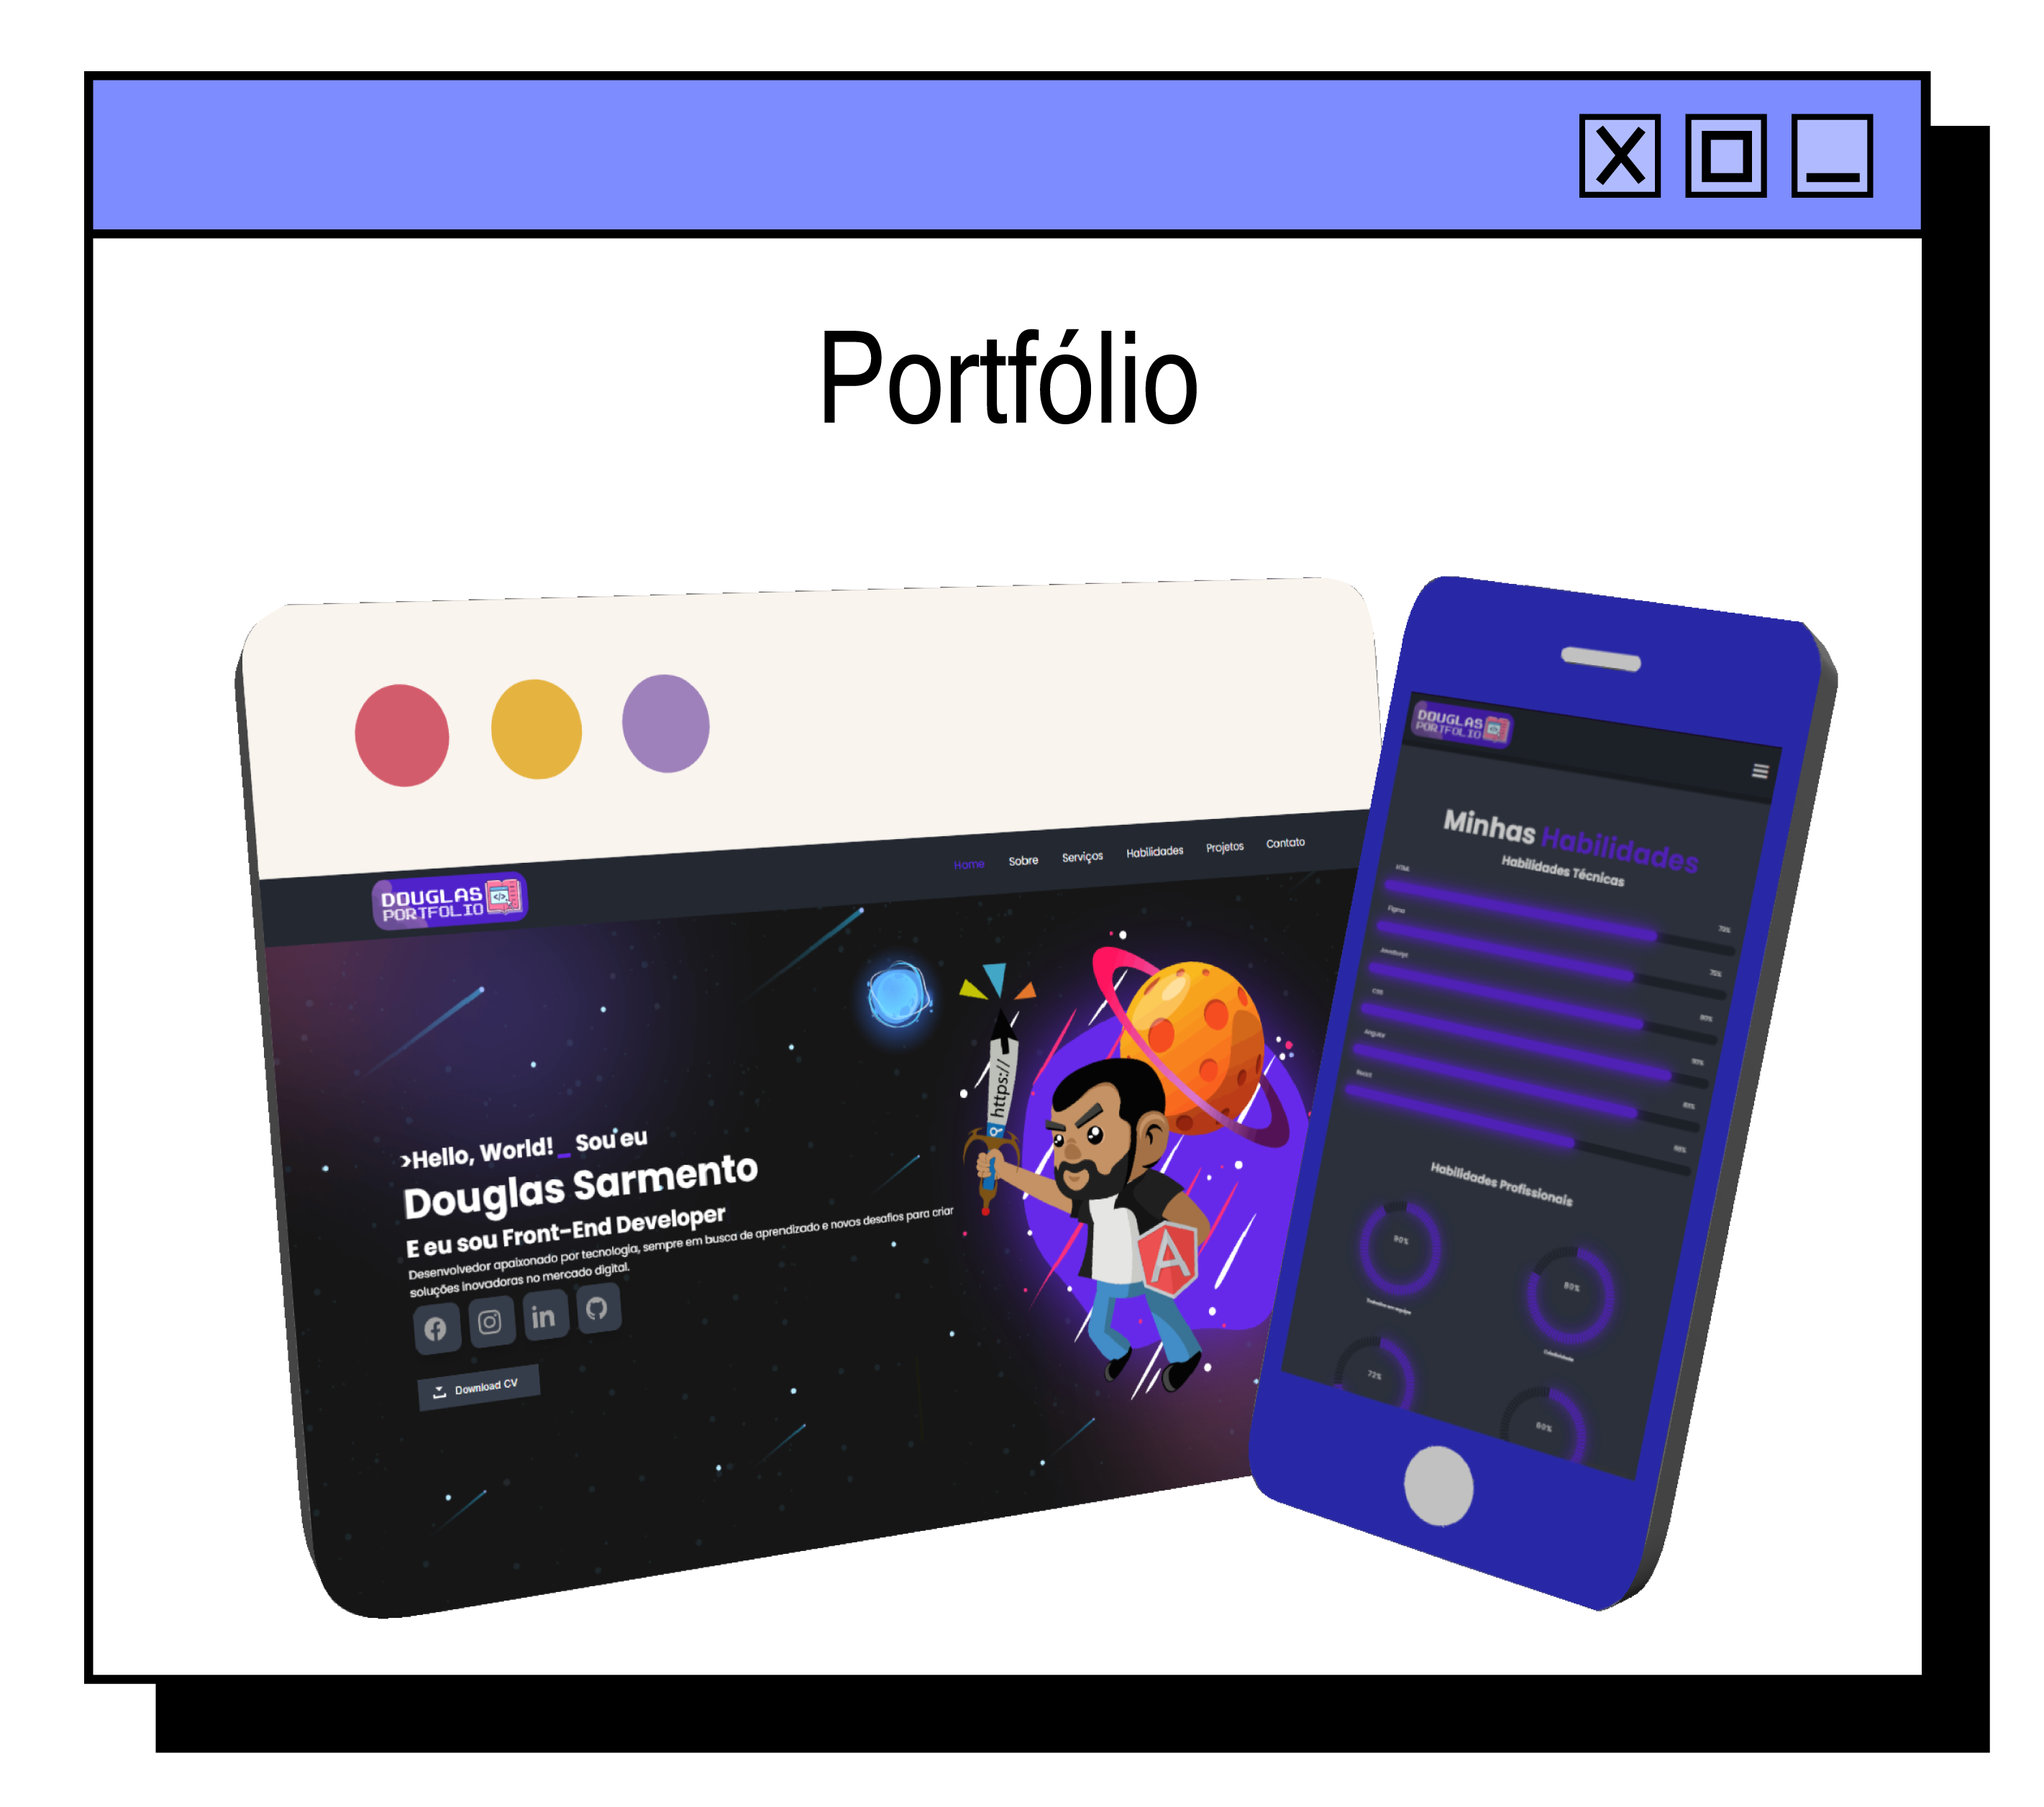
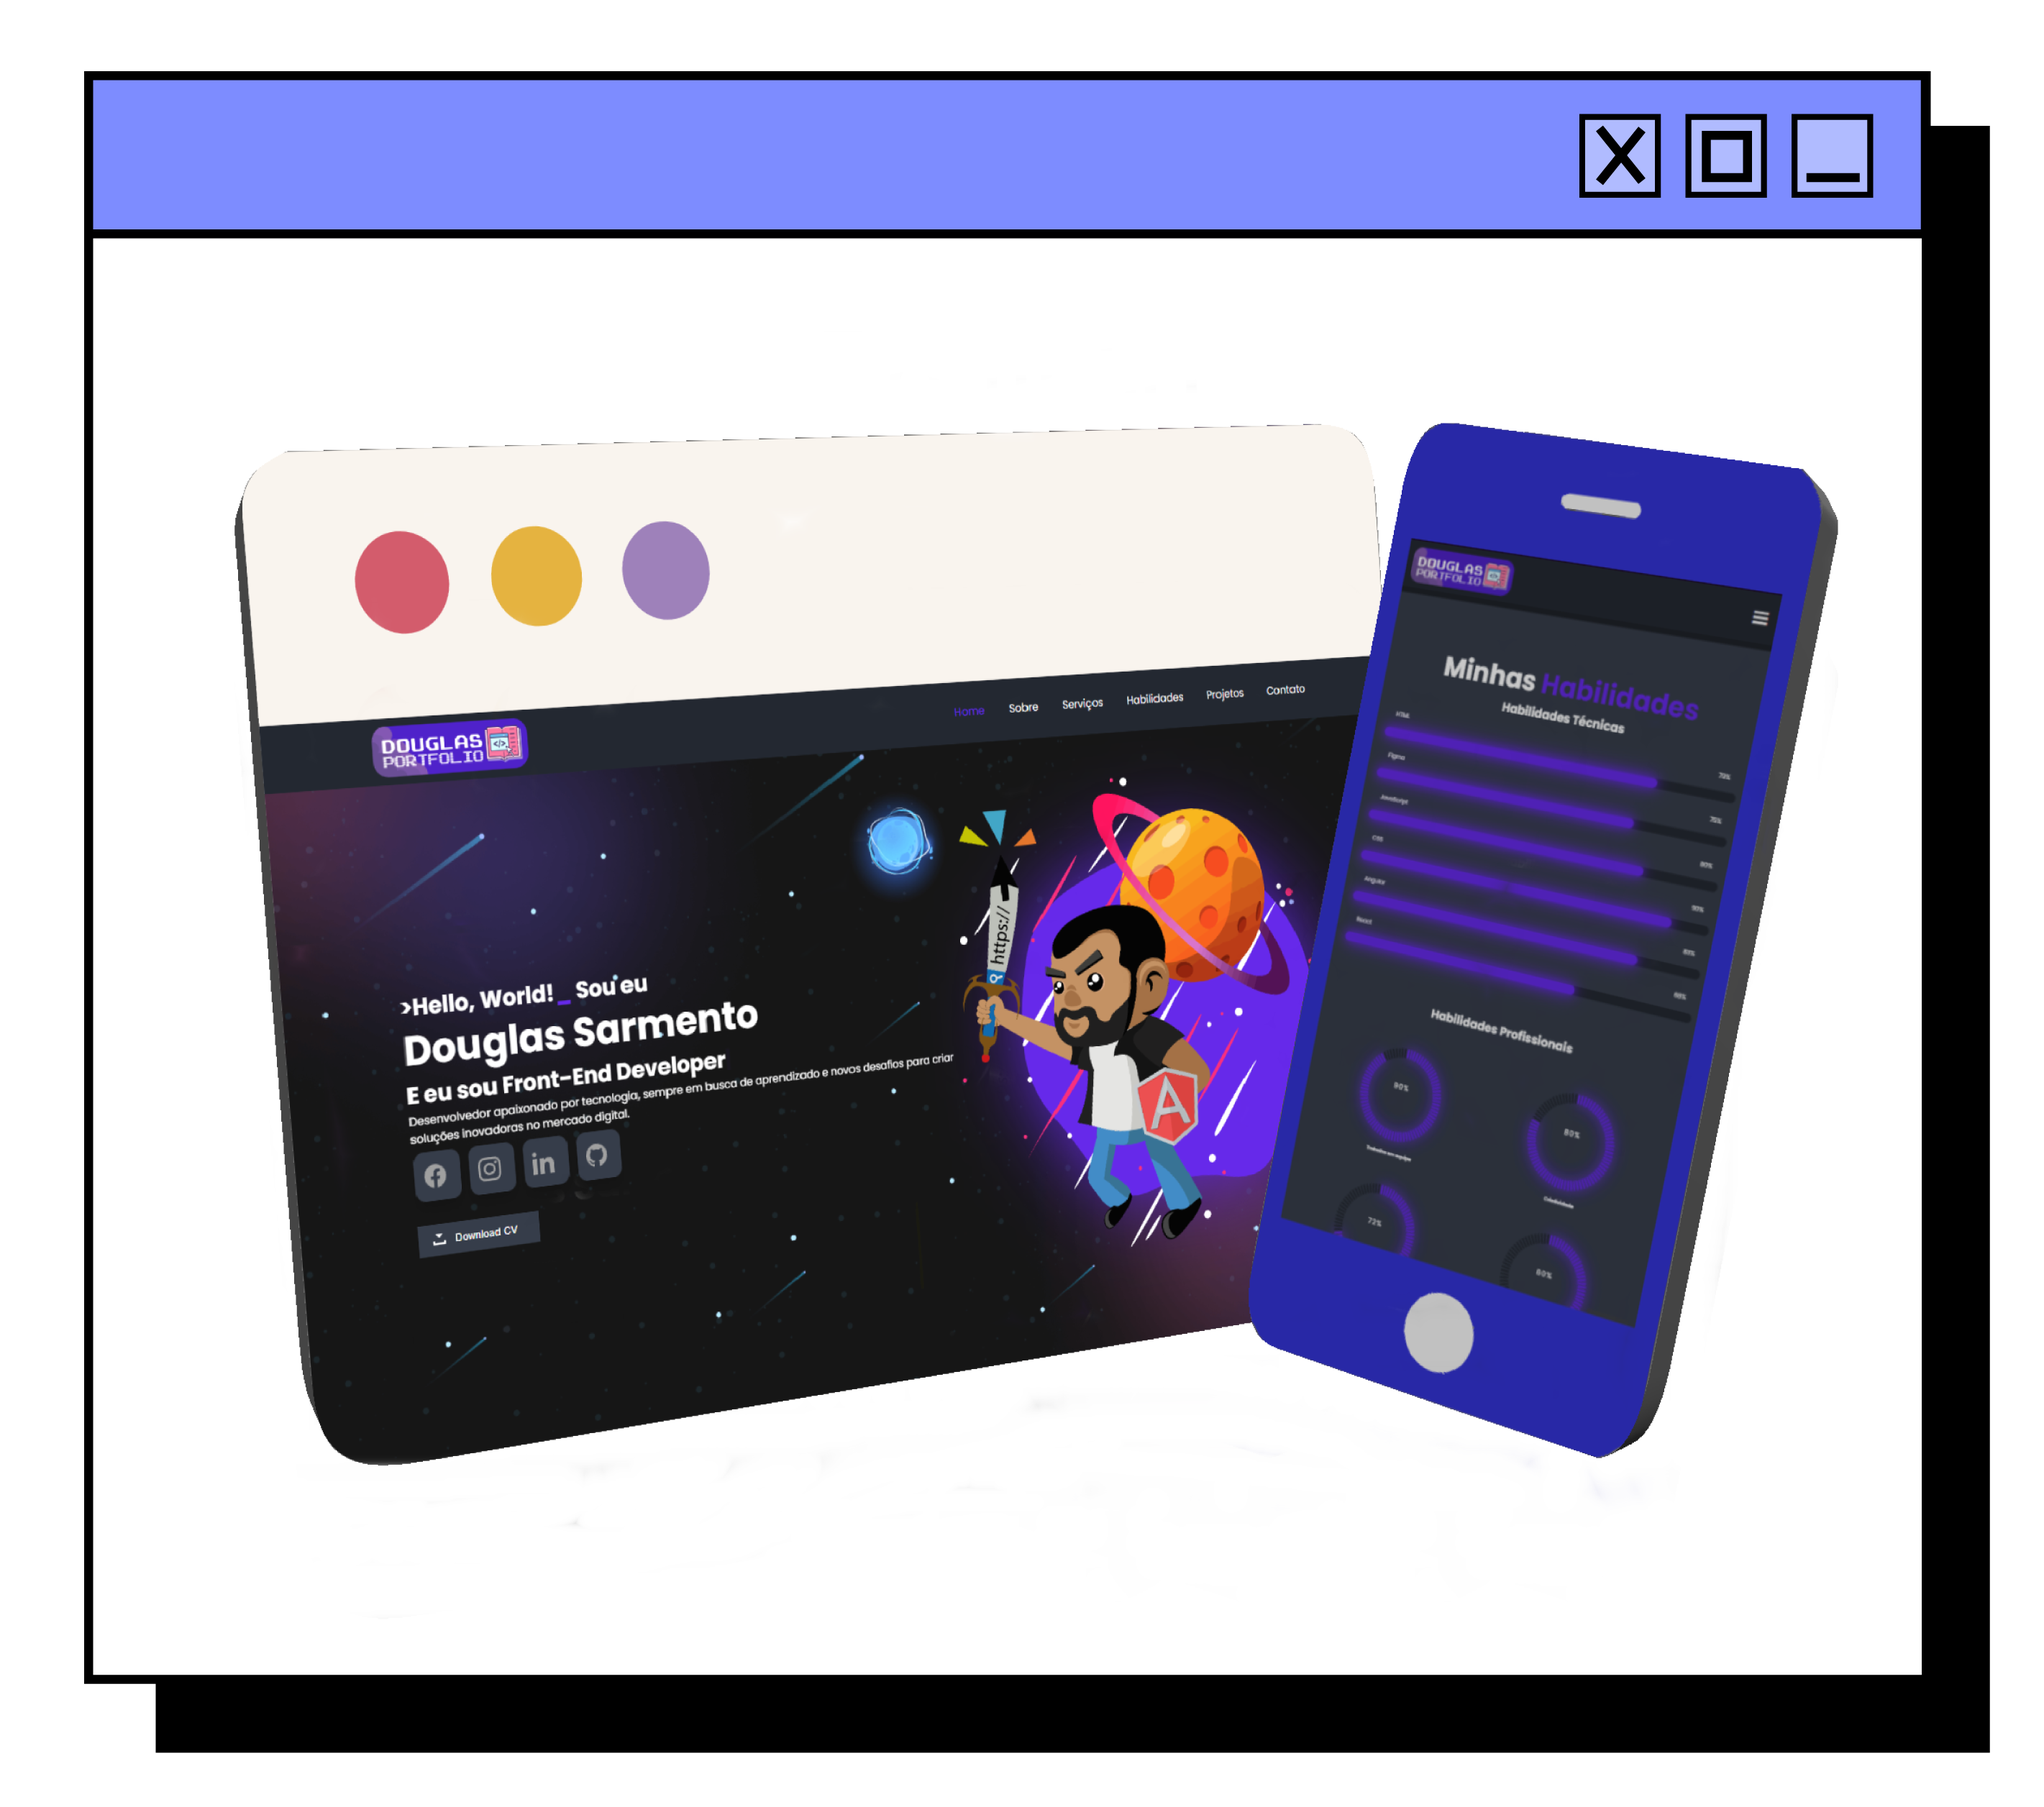
projetos update

Changed region(s): [[0.0929, 0.2173, 0.898, 0.9001], [0.4025, 0.1862, 0.5883, 0.2483]]

diff --git a/index.html b/index.html
@@ -277,11 +277,11 @@
         </div>
         <div class="projetos-container">
             <div class="projetos-box mix web">
-                <img src="img/gen.png" alt="">
+                <img src="img/grimorio.png" alt="">
                 <div class="projetos-layer">
-                    <h4>Gerenciador de Funcionarios</h4>
-                    <p>Projeto gerencia funcionários com MySQL, Java, Node e Spring Boot.</p>
-                    <a href="https://github.com/Eudouglas/employeemanager.git" target="_blank"><button type="button" class="button">
+                    <h4>Meu Pequeno Grimório</h4>
+                    <p>Projeto Flutter com Arquitetura: MVC</p>
+                    <a href="https://github.com/Eudouglas/grimorio-" target="_blank"><button type="button" class="button">
                         <span class="button__text">Código</span>
                         <span class="button__icon">
                             <svg xmlns="http://www.w3.org/2000/svg" width="24" height="24" viewBox="0 0 24 24" style="fill: rgb(255, 255, 255); transform: none;">
@@ -289,7 +289,27 @@
                             </svg>
                           </span>
                     </button></a>
-                    <a href="https://gerenciadordefuncionarios.herokuapp.com/" target="_blank"><button type="button" class="button">
+                    <a href="https://github.com/Eudouglas/grimorio-/blob/main/README.md" target="_blank"><button type="button" class="button">
+                        <span class="button__text">Live</span>
+                        <span class="button__icon"><svg xmlns="http://www.w3.org/2000/svg" width="24" height="24" viewBox="0 0 24 24" style="fill: rgb(255, 255, 255);transform: none; "><path d="m13 3 3.293 3.293-7 7 1.414 1.414 7-7L21 11V3z"></path><path d="M19 19H5V5h7l-2-2H5c-1.103 0-2 .897-2 2v14c0 1.103.897 2 2 2h14c1.103 0 2-.897 2-2v-5l-2-2v7z"></path></svg></span>
+                    </button></a>
+                </div>
+            </div>
+
+            <div class="projetos-box mix web">
+                <img src="img/aluroni.png" alt="">
+                <div class="projetos-layer">
+                    <h4>Aluroni</h4>
+                    <p>Projeto feito em React, TypeScript, JavaScript, CSS3 e HTML5</p>
+                    <a href="https://github.com/Eudouglas/aluroni" target="_blank"><button type="button" class="button">
+                        <span class="button__text">Código</span>
+                        <span class="button__icon">
+                            <svg xmlns="http://www.w3.org/2000/svg" width="24" height="24" viewBox="0 0 24 24" style="fill: rgb(255, 255, 255); transform: none;">
+                              <path d="m7.375 16.781 1.25-1.562L4.601 12l4.024-3.219-1.25-1.562-5 4a1 1 0 0 0 0 1.562l5 4zm9.25-9.562-1.25 1.562L19.399 12l-4.024 3.219 1.25 1.562 5-4a1 1 0 0 0 0-1.562l-5-4zm-1.649-4.003-4 18-1.953-.434 4-18z"></path>
+                            </svg>
+                          </span>
+                    </button></a>
+                    <a href="https://aluroni-teal.vercel.app/" target="_blank"><button type="button" class="button">
                         <span class="button__text">Live</span>
                         <span class="button__icon"><svg xmlns="http://www.w3.org/2000/svg" width="24" height="24" viewBox="0 0 24 24" style="fill: rgb(255, 255, 255);transform: none; "><path d="m13 3 3.293 3.293-7 7 1.414 1.414 7-7L21 11V3z"></path><path d="M19 19H5V5h7l-2-2H5c-1.103 0-2 .897-2 2v14c0 1.103.897 2 2 2h14c1.103 0 2-.897 2-2v-5l-2-2v7z"></path></svg></span>
                     </button></a>
@@ -325,23 +345,6 @@
                         <span class="button__text">Live</span>
                         <span class="button__icon"><svg xmlns="http://www.w3.org/2000/svg" width="24" height="24" viewBox="0 0 24 24" style="fill: rgb(255, 255, 255);transform: none;"><path d="m13 3 3.293 3.293-7 7 1.414 1.414 7-7L21 11V3z"></path><path d="M19 19H5V5h7l-2-2H5c-1.103 0-2 .897-2 2v14c0 1.103.897 2 2 2h14c1.103 0 2-.897 2-2v-5l-2-2v7z"></path></svg></span>
                     </button></a>
-                </div>    
-            </div>
-
-            <div class="projetos-box mix inter">
-                <img src="img/embreve.png" alt="">
-                <div class="projetos-layer">
-                    <h4>EM BREVE</h4> 
-                    <p>Lorem, ipsum dolor sit amet consectetur adipisicing elit. Inventore, obcaecati.</p>
-                    <button type="button" class="button">
-                        <span class="button__text">Código</span>
-                        <span class="button__icon"><svg xmlns="http://www.w3.org/2000/svg" width="24" height="24" viewBox="0 0 24 24" style="fill: rgb(255, 255, 255);transform: none;"><path d="m7.375 16.781 1.25-1.562L4.601 12l4.024-3.219-1.25-1.562-5 4a1 1 0 0 0 0 1.562l5 4zm9.25-9.562-1.25 1.562L19.399 12l-4.024 3.219 1.25 1.562 5-4a1 1 0 0 0 0-1.562l-5-4zm-1.649-4.003-4 18-1.953-.434 4-18z"></path></svg></span>
-                    
-                        <button type="button" class="button">
-                            <span class="button__text">Live</span>
-                            <span class="button__icon"><svg xmlns="http://www.w3.org/2000/svg" width="24" height="24" viewBox="0 0 24 24" style="fill: rgb(255, 255, 255);transform: none;"><path d="m13 3 3.293 3.293-7 7 1.414 1.414 7-7L21 11V3z"></path><path d="M19 19H5V5h7l-2-2H5c-1.103 0-2 .897-2 2v14c0 1.103.897 2 2 2h14c1.103 0 2-.897 2-2v-5l-2-2v7z"></path></svg></span>
-                        </button>
-                    </button>    
                 </div>    
             </div>
 

diff --git a/main.js b/main.js
@@ -82,3 +82,4 @@ circles.forEach(elem=>{
         ponteiroMarked[i].classList.add('marked')
     }
 })
+
